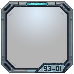
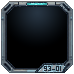
ws client

diff --git a/overlay-client.js b/overlay-client.js
@@ -1,0 +1,17 @@
+const ws = new WebSocket("ws://192.168.1.27:8080");
+
+ws.onopen = () => {
+  console.log("✅ Connected to WebSocket server");
+};
+
+ws.onmessage = (event) => {
+  const [character, effect] = event.data.split(":");
+  console.log(`🎨 Applying effect: ${character} → ${effect}`);
+  if (window.applyOverlayEffect) {
+    window.applyOverlayEffect(character, effect);
+  }
+};
+
+ws.onerror = (err) => {
+  console.error("❌ WebSocket error:", err);
+};

diff --git a/index.html b/index.html
@@ -33,6 +33,7 @@
 
   </div>
   <script src="https://cdn.jsdelivr.net/npm/obs-websocket-js"></script>
+  <script src="overlay-client.js"></script>
   <script src="scripts.js" defer></script>
   <script src="gardokAnimator.js" defer></script>
   <script src="merenAnimator.js" defer></script>
